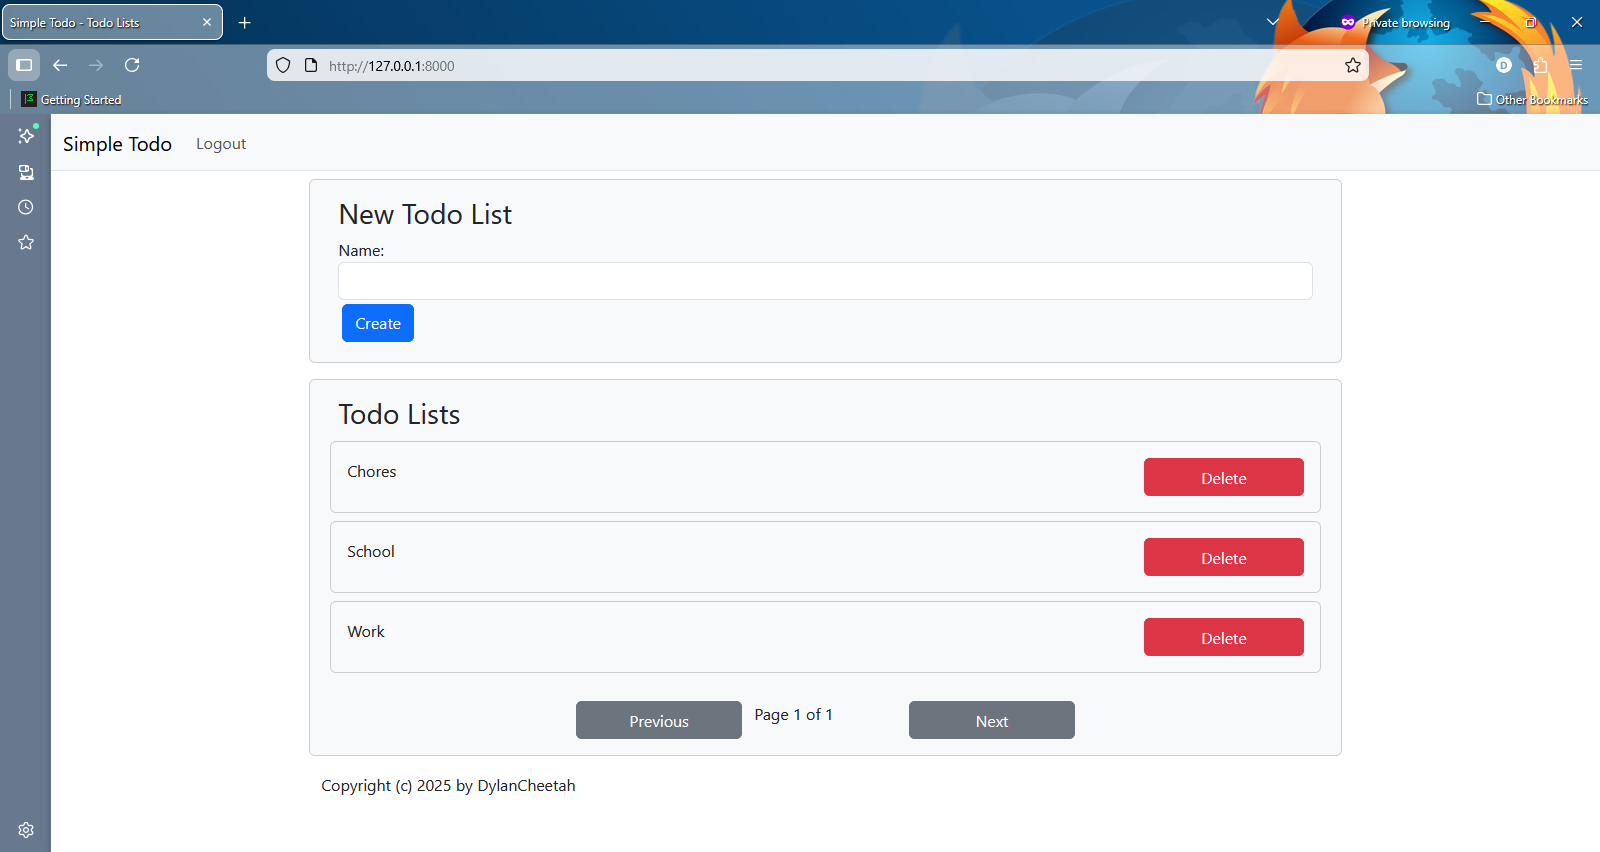
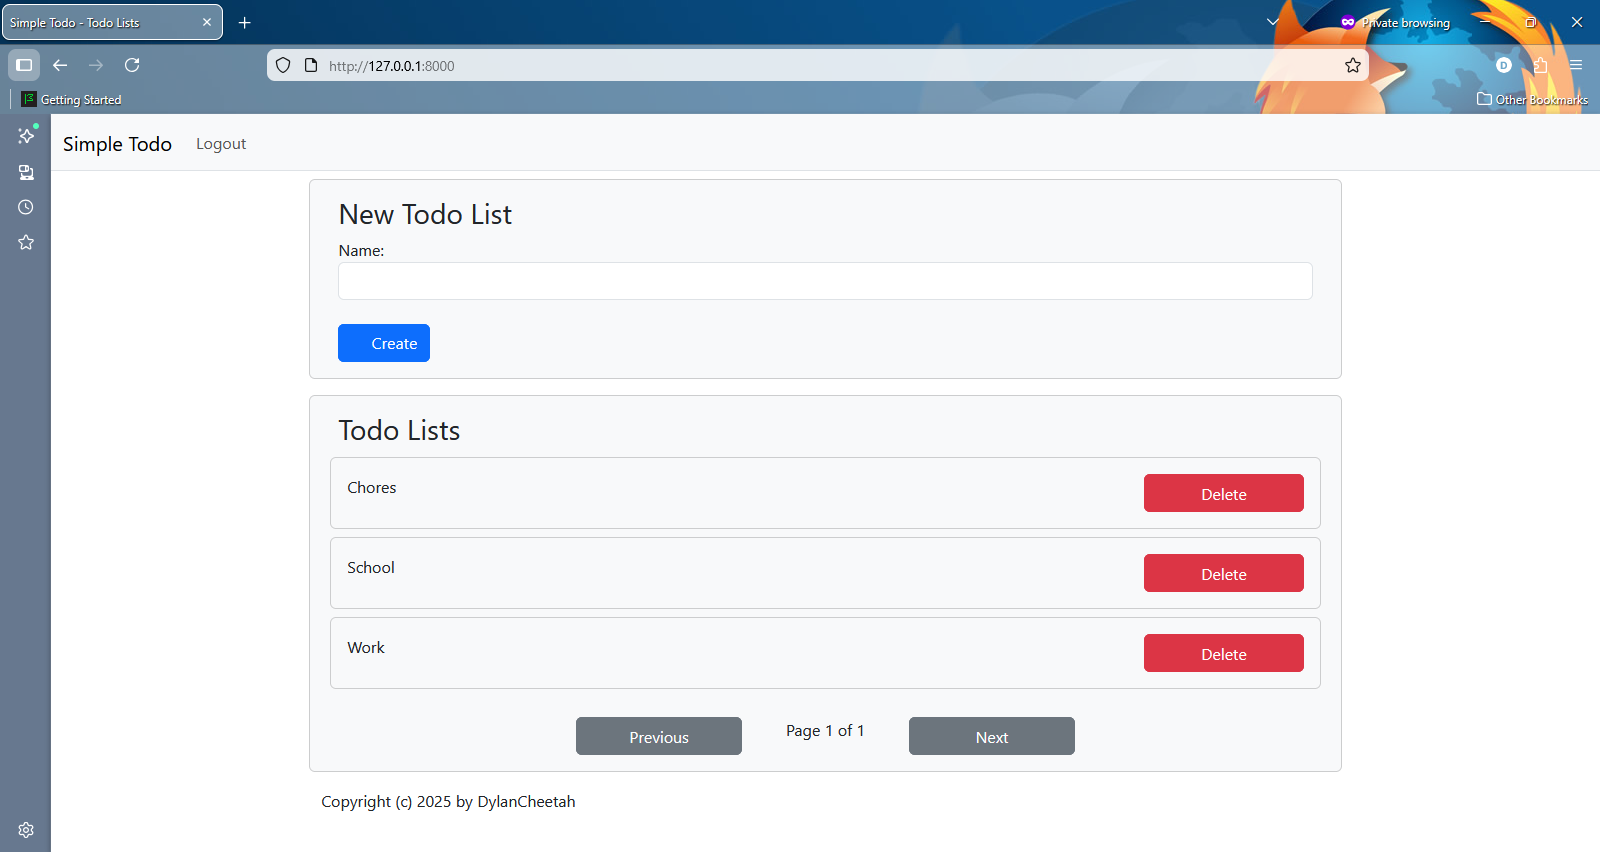
Add progress spinners to homepage buttons.

diff --git a/simple_todo/todo_lists/templates/todo_lists/todo_lists_partial.html b/simple_todo/todo_lists/templates/todo_lists/todo_lists_partial.html
@@ -17,18 +17,26 @@
             <button class="col-2 btn btn-primary"
                     hx-get="{% url 'todo-lists' %}?page={{ page_obj.previous_page_number }}"
                     hx-target="#todo_lists-view" 
-                    hx-swap="outerHTML">
+                    hx-swap="outerHTML"
+                    hx-push-url="true">
+                    <div class="spinner-border spinner-border-sm htmx-indicator" role="status">
+                        <span class="visually-hidden">Loading...</span>
+                    </div>
                     Previous
             </button>
         {% else %}
             <button class="col-2 btn btn-secondary pe-none">Previous</button>
         {% endif %}
-        <div class="col-2">Page {{ page_obj.number }} of {{ paginator.num_pages }}</div>
+        <div class="col-2 text-center">Page {{ page_obj.number }} of {{ paginator.num_pages }}</div>
         {% if page_obj.has_next %}
             <button class="col-2 btn btn-primary"
                     hx-get="{% url 'todo-lists' %}?page={{ page_obj.next_page_number }}"
                     hx-target="#todo_lists-view"
-                    hx-swap="outerHTML">
+                    hx-swap="outerHTML"
+                    hx-push-url="true">
+                    <div class="spinner-border spinner-border-sm htmx-indicator" role="status">
+                        <span class="visually-hidden">Loading...</span>
+                    </div>
                     Next
             </button>
         {% else %}

diff --git a/simple_todo/todo_lists/templates/todo_lists/todo_list_form.html b/simple_todo/todo_lists/templates/todo_lists/todo_list_form.html
@@ -1,5 +1,11 @@
 <form hx-post="" hx-swap="outerHTML">
     {% csrf_token %}
     {{ form }}
-    <button class="m-1 btn btn-primary">Create</button>
+    <br/>
+    <button class="btn btn-primary">
+        <div class="spinner-border spinner-border-sm htmx-indicator">
+            <span class="visually-hidden">Loading...</span>
+        </div>
+        Create
+    </button>
 </form>

diff --git a/lessons/08-homepage.md b/lessons/08-homepage.md
@@ -203,11 +203,17 @@ Then create `simple-todo/simple_todo/todo_lists/templates/todo_lists/todo_list_f
 <form hx-post="" hx-swap="outerHTML">
     {% csrf_token %}
     {{ form }}
-    <button class="m-1 btn btn-primary">Create</button>
+    <br/>
+    <button class="btn btn-primary">
+        <div class="spinner-border spinner-border-sm htmx-indicator">
+            <span class="visually-hidden">Loading...</span>
+        </div>
+        Create
+    </button>
 </form>
 ```
 
-Since we're using htmx, we will use the `hx-post` attribute to define the URL to submit the form to. For now we will leave it blank so we can test the homepage more easily. The `hx-swap` attribute determines what content on the page will be replaced by the response. In this case, we will replace the entire form with the response. Next we need to create `simple-todo/simple_todo/todo_lists/templates/todo_lists/todo_lists_partial.html` with the following content:
+Since we're using htmx, we will use the `hx-post` attribute to define the URL to submit the form to. For now we will leave it blank so we can test the homepage more easily. The `hx-swap` attribute determines what content on the page will be replaced by the response. In this case, we will replace the entire form with the response. The progress spinner on the button has the "htmx-indicator" class added so it will only be visible while an AJAX request is in progress for the form containing the button. Next we need to create `simple-todo/simple_todo/todo_lists/templates/todo_lists/todo_lists_partial.html` with the following content:
 ```html
 <div id="todo_lists-view">
     {% for todo_list in page_obj %}
@@ -228,18 +234,26 @@ Since we're using htmx, we will use the `hx-post` attribute to define the URL to
             <button class="col-2 btn btn-primary"
                     hx-get="{% url 'todo-lists' %}?page={{ page_obj.previous_page_number }}"
                     hx-target="#todo_lists-view" 
-                    hx-swap="outerHTML">
+                    hx-swap="outerHTML"
+                    hx-push-url="true">
+                    <div class="spinner-border spinner-border-sm htmx-indicator" role="status">
+                        <span class="visually-hidden">Loading...</span>
+                    </div>
                     Previous
             </button>
         {% else %}
             <button class="col-2 btn btn-secondary pe-none">Previous</button>
         {% endif %}
-        <div class="col-2">Page {{ page_obj.number }} of {{ paginator.num_pages }}</div>
+        <div class="col-2 text-center">Page {{ page_obj.number }} of {{ paginator.num_pages }}</div>
         {% if page_obj.has_next %}
             <button class="col-2 btn btn-primary"
                     hx-get="{% url 'todo-lists' %}?page={{ page_obj.next_page_number }}"
                     hx-target="#todo_lists-view"
-                    hx-swap="outerHTML">
+                    hx-swap="outerHTML"
+                    hx-push-url="true">
+                    <div class="spinner-border spinner-border-sm htmx-indicator" role="status">
+                        <span class="visually-hidden">Loading...</span>
+                    </div>
                     Next
             </button>
         {% else %}
@@ -249,7 +263,7 @@ Since we're using htmx, we will use the `hx-post` attribute to define the URL to
 </div>
 ```
 
-The `hx-get` attribute determines what URL to fetch the previous/next page from, the `hx-target` attribute determines which element will be modified by the content fetched, and the `hx-swap` attribute determines how the target element will be modified. In this case, we will replace the entire element identified as "todo_lists-view" with the fetched content. Now we need to create `simple-todo/simple_todo/todo_lists/templates/todo_lists/todo_lists_full.html` with the following content:
+The `hx-get` attribute determines what URL to fetch the previous/next page from, the `hx-target` attribute determines which element will be modified by the content fetched, and the `hx-swap` attribute determines how the target element will be modified. In this case, we will replace the entire element identified as "todo_lists-view" with the fetched content. The `hx-push-url` attribute is set to "true" in order to push the URL of the fetched content into the browser history. Now we need to create `simple-todo/simple_todo/todo_lists/templates/todo_lists/todo_lists_full.html` with the following content:
 ```html
 {% extends "layout/base.html" %}
 
